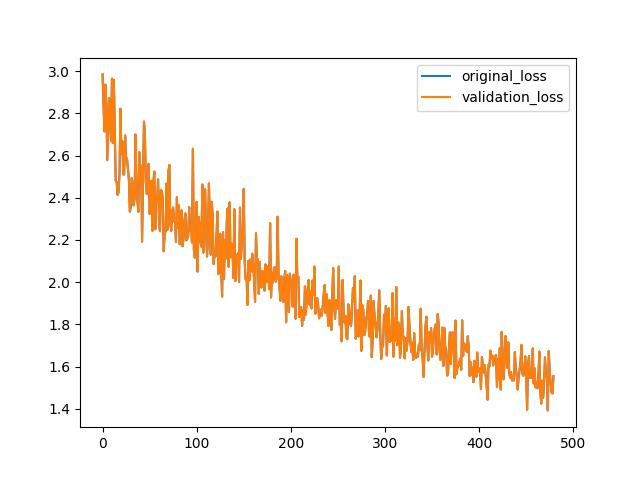
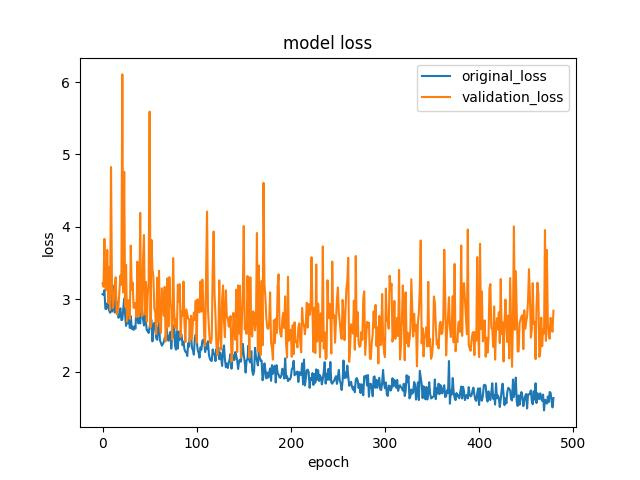
update

diff --git a/main.py b/main.py
@@ -6,8 +6,19 @@ from vsei_feature import get_vsei_feature
 import tensorflow as tf
 from sklearn.metrics import accuracy_score
 from numpy import argmax
+import numpy as np
+from sklearn.metrics import mean_squared_error
+from math import sqrt
+
+
+    
+def mean_squared_error(y,t):
+    return 0.5 * np.sum((y-t)**2)
+
 
 if __name__ =="__main__":
+
+    # train dataset 생성
     train_data = {}
     train_data['charge'] = []
     train_data['discharge'] = []
@@ -16,7 +27,8 @@ if __name__ =="__main__":
         charge_data, discharge_data = get_matData(td) 
         train_data['charge'].append(charge_data)
         train_data['discharge'].append(discharge_data)
-    
+     
+    # test dataset 생성
     test_data = {}
     test_data['charge'] = []
     test_data['discharge'] = []
@@ -35,40 +47,73 @@ if __name__ =="__main__":
 
     trainX = np.array(trainX); trainY = np.array(trainY)
     testX = np.array(testX); testY = np.array(testY)
-    '''
-    s = np.arange(trainX.shape[0])
-    np.random.shuffle(s)
-
-    trainX = trainX[s]
-    trainY = trainY[s]
-    '''
+    
     trainX = np.expand_dims(trainX,axis=2)
     testX = np.expand_dims(testX,axis=2)
 
-    model = neural_model()
-    
-    history = model.fit(trainX,trainY, epochs=epochs, batch_size= batch_size, validation_data = (testX,testY))
+    # 모델 CNN
+    print("CNN\n")
+    model1 = neural_model("cnn")
 
-    predict_result = model.predict(testX)
+    history1 = model1.fit(trainX,trainY, epochs=epochs, batch_size= batch_size, validation_data = (testX,testY))
+
+    predict_result1 = model1.predict(testX)
     #loss, mae, mse = model.evaluate(testX, testY)
     testCycles = np.array(testCycles)
 
-    Xpred = predict_result.argmax(axis=-1)
+    Xpred1 = predict_result1.argmax(axis=-1)
     Ytest= testY.argmax(axis=-1)
 
-    # 정확도
-    print("정확도: ", accuracy_score(Xpred, Ytest))
+    # 모델 LSTM
+    print("LSTM\n")
+    model2 = neural_model('LSTM')
+    history2 = model2.fit(trainX,trainY, epochs=epochs, batch_size= batch_size, validation_data = (testX,testY))
 
+    predict_result2 = model2.predict(testX)
+    #loss, mae, mse = model.evaluate(testX, testY)
+    testCycles = np.array(testCycles)
+
+    Xpred2 = predict_result2.argmax(axis=-1)
+    Ytest= testY.argmax(axis=-1)
+    
+
+    # # 정확도
+    # print("정확도: ", accuracy_score(Xpred, Ytest))
+
+    # 모델 비교 그래프
     plt.figure()
     plt.plot(testCycles,testY, label = "original")
-    plt.plot(testCycles,predict_result, label = "predict")
+    plt.plot(testCycles,predict_result1, label = "Convolution Neural Networks")
+    plt.plot(testCycles,predict_result2, label = "LSTM")
+    plt.ylabel('State Of Health(SOH)')
+    plt.xlabel('Cycle')
     plt.legend()
     plt.savefig("./result.jpg")
     plt.show()
 
+    # 손실도
     plt.figure()
-    plt.plot(history.history['loss'][20:], label = 'original_loss')
-    plt.plot(history.history['loss'][20:], label = 'validation_loss')
+    plt.plot(history1.history['loss'][20:], label = 'original_loss')  # 매 epoch 마다의 훈련 손실 값 
+    plt.plot(history1.history['val_loss'][20:], label = 'validation_loss') # 매 epoch 마다의 검증 손실 값 
+    plt.title('Convolution Neural Networks loss')
+    plt.ylabel('loss')
+    plt.xlabel('epoch')
     plt.legend()
-    plt.savefig("./result_loss.jpg")
+    plt.savefig("./result_CNN_loss.jpg")
     plt.show()
+
+    plt.figure()
+    plt.plot(history2.history['loss'][20:], label = 'original_loss')  # 매 epoch 마다의 훈련 손실 값 
+    plt.plot(history2.history['val_loss'][20:], label = 'validation_loss') # 매 epoch 마다의 검증 손실 값 
+    plt.title('LSTM loss')
+    plt.ylabel('loss')
+    plt.xlabel('epoch')
+    plt.legend()
+    plt.savefig("./result_LSTM_loss.jpg")
+    plt.show()
+
+    rmse1 = sqrt(mean_squared_error(testY, predict_result1))
+    print("CNN RMSE: %s" %rmse1)
+
+    rmse2 = sqrt(mean_squared_error(testY, predict_result2))
+    print(" LSTM RMSE: %s" %rmse2)

diff --git a/config.py b/config.py
@@ -1,5 +1,5 @@
 from keras.models import Sequential
-from keras.layers import Dense,Input, Conv1D, LeakyReLU, Flatten, MaxPooling1D
+from keras.layers import Dense,Input, Conv1D, LeakyReLU, Flatten, MaxPooling1D, LSTM
 from keras import optimizers
 
 
@@ -10,14 +10,13 @@ min_soc = 0.2
 max_soc = 0.6
 
 soc_margin = 0.030 # soc 간격이 1.5%가 아니라 더 높게해야 잘나옴
-
-model_pick = 'cnn'
 input_size = 10
 
 epochs = 500
 batch_size = 4
 
-def neural_model():
+def neural_model(model_pick):
+
     model = Sequential()
 
     if model_pick == "cnn":
@@ -30,9 +29,9 @@ def neural_model():
         model.add(Flatten())
         model.add(Dense(100))
         model.add(Dense(1))
-    elif model_pick == "ann":
-        model.add(Flatten())
-        model.add(Dense(100))
+    elif model_pick == "LSTM":
+        model.add(LSTM(10, activation = 'relu', input_shape=(input_size,1)))
+        model.add(Dense(5))  # DENSE와 사용법 동일하나 input_shape=(열, 몇개씩잘라작업)
         model.add(Dense(1))
 
     optimizer = optimizers.Adam()
